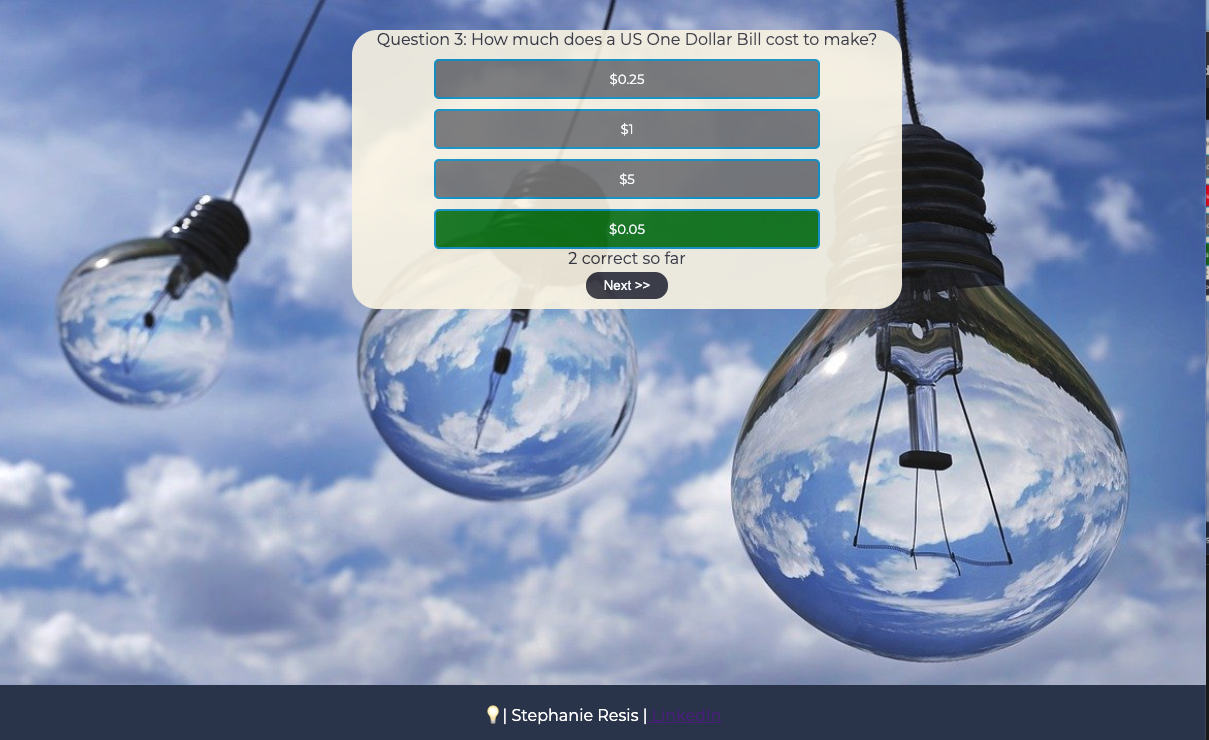
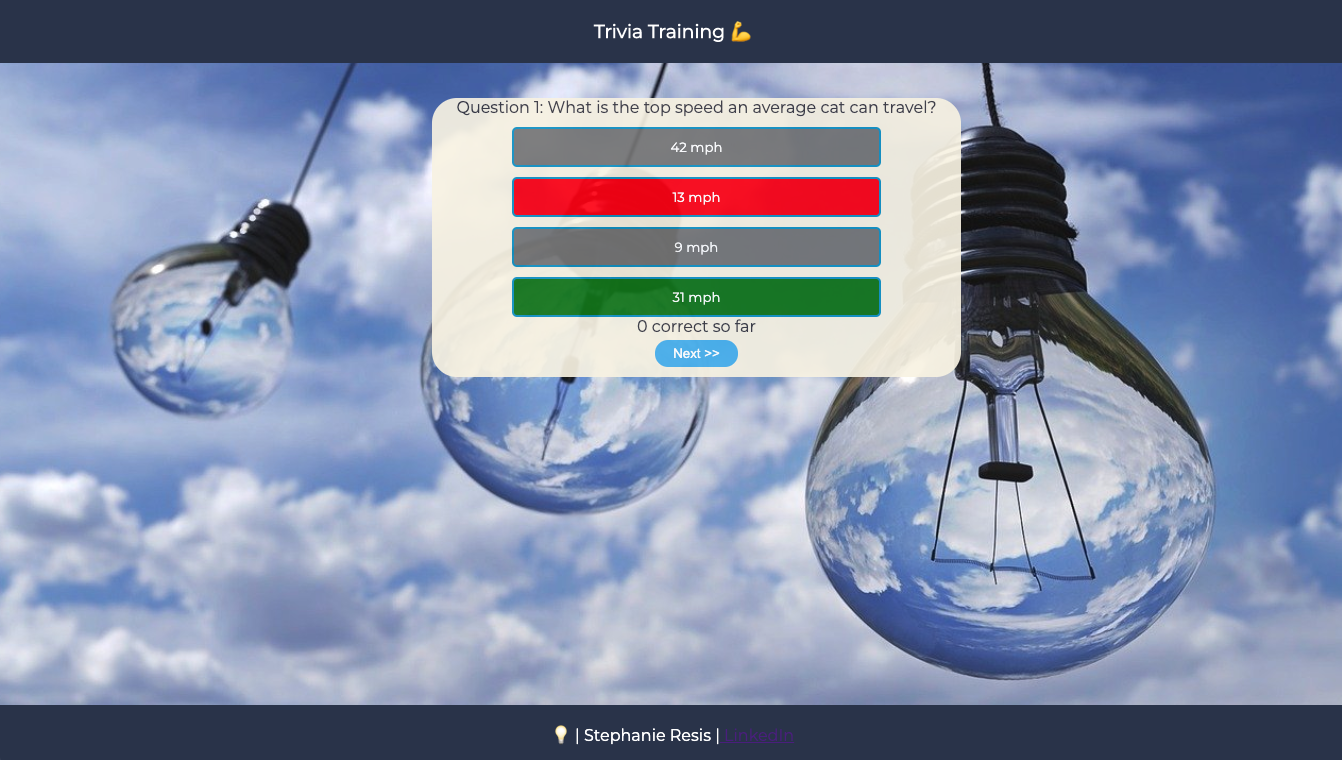
add screenshots and update formatting

diff --git a/src/App.css b/src/App.css
@@ -20,11 +20,11 @@
 #home-but:hover, #next-but:hover, #play:hover {
   background-color:#403f48;
 }
-#question-form, #final-box {
+#question-form, #final-box, .home {
   text-align: center;
   align-content: center;
   justify-content: center;
-  margin-top: 30px;
+  margin-top: 100px;
   background:#f8f4e5;
   width: 110%;
   border-radius: 25px;
@@ -32,11 +32,11 @@
   opacity: 92%;
 }
 #final-box {
-  width: 200%;
-  text-align: center;
-  vertical-align: middle;
+  width: 70%;
   align-content: center;
-  margin-top: 50%;
+  left: 15%;
+  position: fixed;
+
 
 }
 .option-but {
@@ -59,5 +59,16 @@
   bottom: 0;
   width: 100%;
   color: white;
+
+}
+
+.title {
+  color: white;
+  background-color: #2F3954;
+  width: 100%;
+  position: fixed;
+  top: 0;
+  left: 0;
+  margin-bottom: 1000px;
 
 }

diff --git a/src/App.js b/src/App.js
@@ -7,12 +7,24 @@ import Home from './Home';
 
 function App() {
   return (
-    <Router>
+    <React.Fragment>
+      <div className="title container-fluid"><h3>Trivia Training 💪</h3></div>
+      <div className="footer container-fluid">
+        <p className="center">💡 | 
+        <i className="fas fa-envelope-square padding"></i> Stephanie Resis | 
+        <a href="https://www.linkedin.com/in/stephanie-resis/"><i className="fab fa-linkedin padding"></i> LinkedIn </a>
+        </p>
+      </div>
+      <Router>
       <Switch>
         <Route path="/questions" component={Questions}></Route>
         <Route path="/" component={Home}></Route>
       </Switch>
     </Router>
+      
+    
+    </React.Fragment>
+    
   )
 }
 

diff --git a/src/Home.js b/src/Home.js
@@ -12,14 +12,17 @@ function Home(props) {
   };
 
   return (
-    <div className="home">
-      <h1>Welcome to Trivia Training!</h1>
-      <button className="start-trivia"
-                id="home-but" 
-              onClick={handleClick}> 
-        Start Playing! 
-      </button>
-    </div>
+    <React.Fragment>
+      <div className="home">
+        <h1>Welcome to Trivia Training!</h1>
+        <button className="start-trivia"
+                  id="home-but" 
+                onClick={handleClick}> 
+          Start Playing! 
+        </button>
+      </div>
+    </React.Fragment>
+    
       );
 }
 

diff --git a/src/Questions.js b/src/Questions.js
@@ -89,6 +89,7 @@ function Questions() {
     }
     return(
         <React.Fragment>
+            <div className="title container-fluid"><h3>Trivia Training 💪</h3></div>
             {questionsLeft? (
                 <Form id='question-form'>
                     <FormLabel> Question {questionIdx + 1}: {triviaQuestions[questionIdx].question} </FormLabel>
